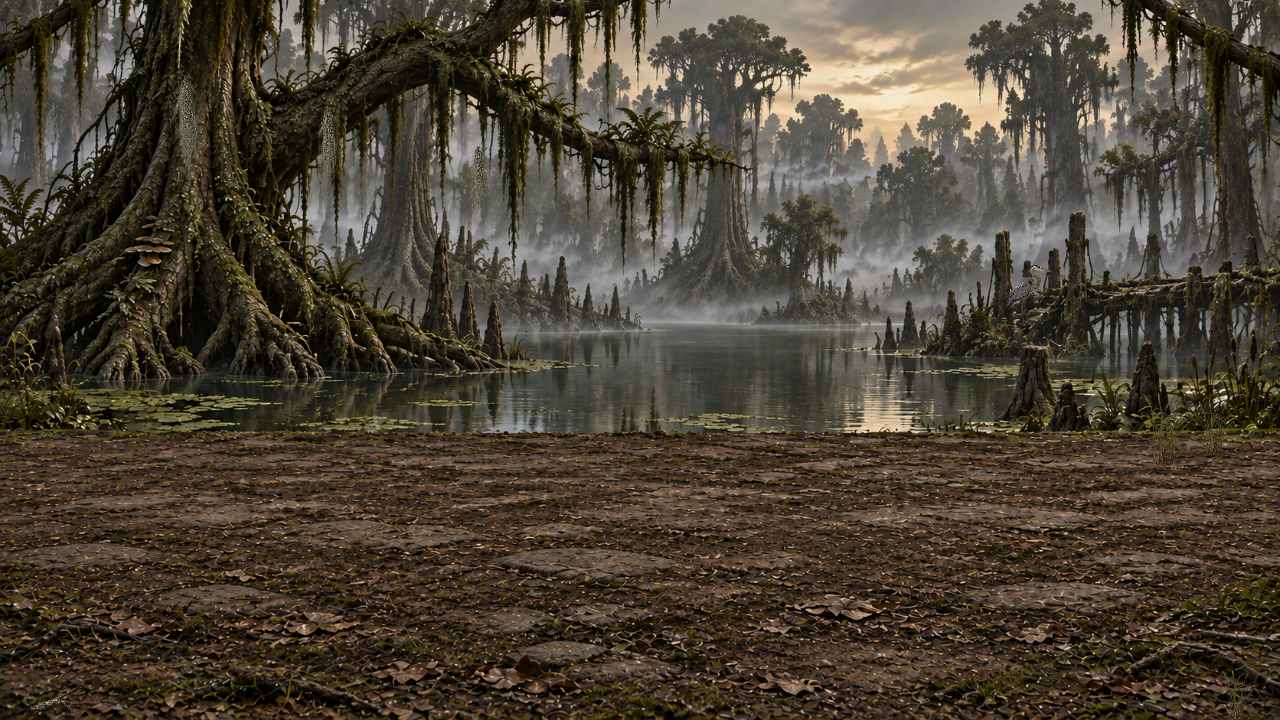
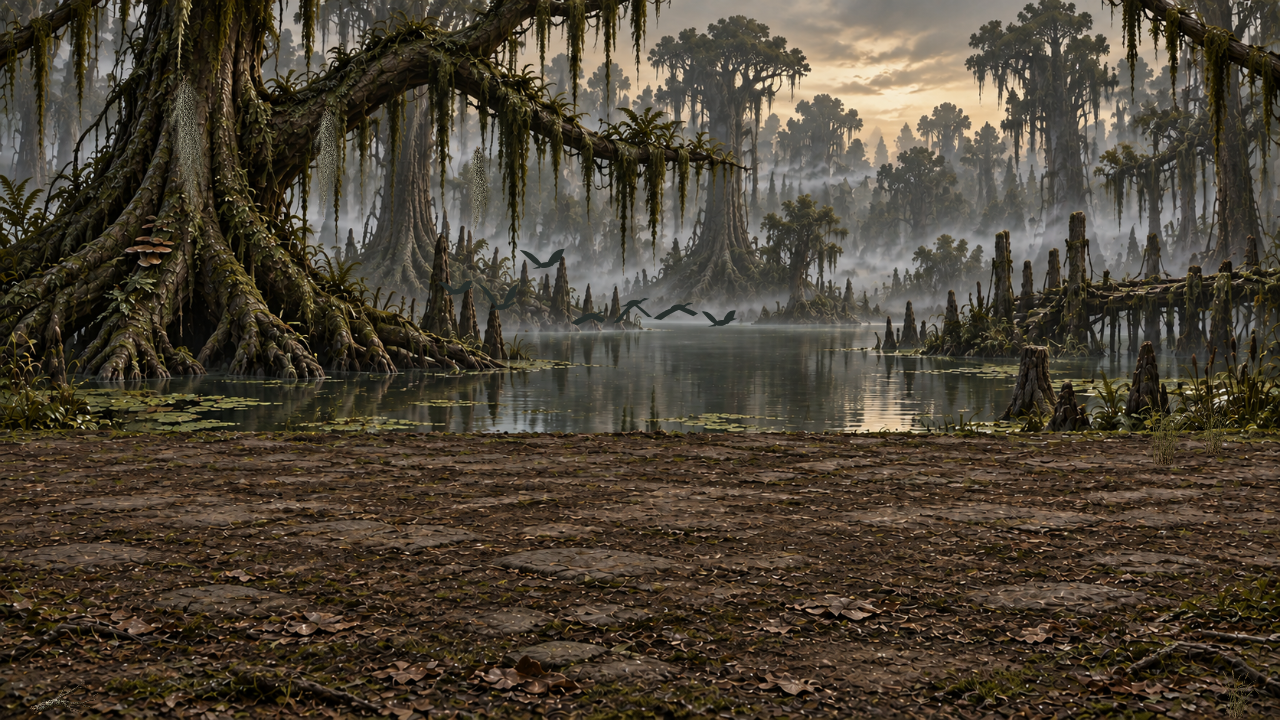
Strengthen swamp scene animations and vary bone charms

diff --git a/studies/backgrounds/swamp-v3/scene.js b/studies/backgrounds/swamp-v3/scene.js
@@ -1,11 +1,13 @@
 export const duration=24;
 export const screens=[
- {name:'Leechwater Crossing',file:'crossing.png',mood:'Open water. Wind in the cypress.',motion:'Moss stirs in irregular gusts, a marsh heron flexes its neck, and sparse bank reeds bow from their roots.',effects:['Hanging moss','Heron on the stump','Bank reeds'],bounds:[[.08,.1,.38,.4],[.75,.42,.12,.2],[.84,.48,.14,.15]]},
- {name:'The Witch’s Hollow',file:'hollow.png',mood:'An inhabited hollow, dense with old rituals.',motion:'Bone charms swing from fixed knots, rag strips flutter in small waves, and occasional fungal spores drift from the hollow.',effects:['Bone charms','Rag strips','Fungal spores'],bounds:[[.2,.22,.3,.32],[.29,.22,.2,.34],[.22,.3,.22,.25]]},
- {name:'The Drowned Procession',file:'procession.png',mood:'Two bell towers. A broken ceremonial route.',motion:'The great bell and the smaller bell swing with different weights and independently moving clappers. A loose chain shifts against the ruined stone.',effects:['Great funeral bell','Small funeral bell','Loose chain'],bounds:[[.14,.12,.2,.35],[.7,.2,.16,.3],[.4,.26,.05,.2]]},
+ {name:'Leechwater Crossing',file:'crossing.png',mood:'Open water. Wind in the cypress.',motion:'A flock of marsh birds crosses the water with staggered wingbeats. Longer moss strands catch the wind while reeds bow along the bank.',effects:['Hanging moss','Crossing marsh flock','Bank reeds'],bounds:[[.08,.1,.38,.4],[0,.24,1,.3],[.84,.48,.14,.15]]},
+ {name:'The Witch’s Hollow',file:'hollow.png',mood:'An inhabited hollow, dense with old rituals.',motion:'A dense mix of skull charms, paired bones and rib mobiles swings at different lengths. Rag strips flutter between them and fungal spores drift from the hollow.',effects:['Bone charms','Rag strips','Fungal spores'],bounds:[[.2,.22,.3,.32],[.29,.22,.2,.34],[.22,.3,.22,.25]]},
+ {name:'The Drowned Procession',file:'procession.png',mood:'Two bell towers. A broken ceremonial route.',motion:'Two bells swing on short iron suspension brackets, with clappers seated inside their mouths. A funeral brazier burns beside the processional route, shedding rising embers.',effects:['Great funeral bell','Small funeral bell','Funeral brazier and embers'],bounds:[[.14,.12,.2,.35],[.7,.2,.16,.3],[.58,.29,.09,.24]]},
  {name:'The Sunken Throne',file:'throne.png',mood:'The court survives. The king still rules.',motion:'Two tattered royal standards ripple below their fixed crossbars. Corroded ceremonial pendants turn and sway beside the raised throne.',effects:['Royal standards','Iron pendants'],bounds:[[.28,.25,.14,.29],[.61,.25,.13,.29]]}
 ];
 export const assetFiles=Object.fromEntries(['moss','charm','rag','bell','banner','pendant','reeds','branch','heron'].map(key=>[key,key+'.png']));
+assetFiles.fire='fire.png';
+for(const key of ['paired-bones','ribs','brazier','bird-skull'])assetFiles[key]=key+'.png';
 const TAU=Math.PI*2;
 const sine=(t,period,offset=0)=>Math.sin(TAU*(t/period+offset));
 const random=i=>{const a=Math.sin(i*127.1+311.7)*43758.5453;return a-Math.floor(a)};
@@ -44,28 +46,65 @@ function chain(g,x,y,length,t,active,phase=0){
 }
 function bell(g,image,x,y,w,h,t,period,phase,active){
  const a=active?.105*sine(t,period,phase):0;
- chain(g,x,y,20,0,false);
- g.save();g.translate(x,y+20);g.rotate(a);
- // A clapper has its own delayed pendulum, visible beneath the mouth.
- g.save();g.translate(0,h*.46);g.rotate(active?-.15*sine(t,period,phase+.14):0);
- const metal=g.createLinearGradient(-3,0,4,0);metal.addColorStop(0,'#242721');metal.addColorStop(.6,'#776d51');metal.addColorStop(1,'#30372c');g.fillStyle=metal;
- g.fillRect(-1.8,0,3.6,h*.55);g.beginPath();g.ellipse(0,h*.55,4.4,6.5,0,0,TAU);g.fill();g.restore();
- g.drawImage(image,-w/2,0,w,h);g.restore();
+ const fit=Math.min(w/image.width,h/image.height);w=image.width*fit;h=image.height*fit;
+ // Short fixed iron yoke. Only the bell and its internal clapper pivot.
+ g.save();g.translate(x,y);
+ g.strokeStyle='#232825';g.lineWidth=5;g.beginPath();g.moveTo(-9,3);g.lineTo(9,3);g.moveTo(0,0);g.lineTo(0,12);g.stroke();
+ g.strokeStyle='#8b8872';g.lineWidth=1;g.beginPath();g.moveTo(-9,1);g.lineTo(9,1);g.stroke();
+ g.translate(0,12);g.rotate(a);
+ g.drawImage(image,-w/2,0,w,h);
+ g.save();g.translate(0,h*.86);g.rotate(active?-.17*sine(t,period,phase+.14):0);
+ g.strokeStyle='#242820';g.lineWidth=2.7;g.beginPath();g.moveTo(0,0);g.lineTo(0,h*.075);g.stroke();
+ g.fillStyle='#69644b';g.beginPath();g.ellipse(0,h*.075,3.4,4.5,0,0,TAU);g.fill();g.restore();
+ g.restore();
+}
+function flock(g,t,active){
+ const ft=active?t:0;
+ for(let i=0;i<7;i++){
+  // Reset well outside the viewport; each flock follows a wide diagonal route.
+  const p=((ft/12+.2+i*.019)%1);
+  const x=-200+p*1680+i*12,y=206+Math.sin(p*Math.PI)*48+random(i+60)*76;
+  const size=19+(i%3)*3,flap=sine(ft, .75,i*.17);
+  g.save();g.translate(x,y);g.rotate(-.07);g.fillStyle='#262e2b';
+  g.beginPath();g.ellipse(0,0,7,2.8,-.08,0,TAU);g.fill();
+  g.beginPath();g.moveTo(-3,0);g.quadraticCurveTo(-size*.55,-7-flap*size*.7,-size,-3-flap*size);
+  g.lineTo(-size*.7,2-flap*size*.75);g.quadraticCurveTo(-size*.25,5,3,2);g.fill();
+  g.beginPath();g.moveTo(1,0);g.quadraticCurveTo(size*.3,-8-flap*size*.55,size*.8,-3-flap*size*.85);
+  g.lineTo(size*.6,3-flap*size*.55);g.lineTo(0,2);g.fill();
+  g.beginPath();g.moveTo(5,-1);g.lineTo(11,-4);g.lineTo(16,-3);g.lineTo(9,-1);g.lineTo(6,2);g.fill();
+  g.beginPath();g.moveTo(-5,0);g.lineTo(-14,3);g.lineTo(-6,3);g.fill();g.restore();
+ }
+}
+function brazier(g,fire,t,active,body){
+ const x=789,y=373,ft=active?t:0;
+ g.save();g.translate(x,y);
+ // Existing 8x8 game fire atlas: discrete frames, no frame blending.
+ const frame=Math.floor(ft*24)%64,sw=fire.width/8,sh=fire.height/8;
+ g.globalCompositeOperation='screen';
+ g.drawImage(fire,frame%8*sw,Math.floor(frame/8)*sh,sw,sh,-43,-159,86,99);
+ g.globalCompositeOperation='source-over';
+ sprite(g,body,0,-94,84,96);
+ if(active)for(let i=0;i<10;i++){
+  const p=(ft/3+random(i))%1;g.globalAlpha=Math.sin(p*Math.PI);
+  g.fillStyle=i%2?'#e9a94d':'#cc6629';g.fillRect(Math.sin(p*5+i)*12,-67-p*76,1.5,2.5);
+ }
+ g.restore();
 }
 export function drawScenery(g,index,image,a,time,enabled=[true,true,true]){
  const t=((time%duration)+duration)%duration;
  g.clearRect(0,0,1280,720);g.drawImage(image,0,0,1280,720);
  if(index===0){
-  for(const [x,y,w,h,p] of [[187,74,38,152,.1],[329,105,29,125,.4],[479,145,24,104,.7]])ribbon(g,a.moss,x,y,w,h,enabled[0]?t:0,p,enabled[0]?5:0);
-  ribbon(g,a.heron,1030,264,48,75,enabled[1]?t:0,.2,enabled[1]?5:0,'bird');
+  for(const [x,y,w,h,p] of [[187,74,48,184,.1],[329,105,38,154,.4],[479,145,31,128,.7]])ribbon(g,a.moss,x,y,w,h,enabled[0]?t:0,p,enabled[0]?12:0);
+  flock(g,t,enabled[1]);
   for(const [x,y,w,h,p] of [[1170,386,72,81,.1],[1219,395,46,61,.6]])ribbon(g,a.reeds,x,y,w,h,t,p,enabled[2]?4:0,'root');
  }else if(index===1){
-  for(const [x,y,w,h,p] of [[290,180,30,92,.1],[515,207,24,81,.45],[558,180,29,104,.8]])charm(g,a.charm,x,y,w,h,t,p,enabled[0]);
+  for(const [x,y,w,h,p] of [[290,180,38,122,.1],[515,207,32,108,.45],[558,180,35,133,.8],[361,124,26,104,.63],[459,149,31,139,.27]])charm(g,p===.63||p===.8?a['bird-skull']:a.charm,x,y,w,h,t,p,enabled[0]);
+  for(const [x,y,l,p,k] of [[321,154,57,.13,0],[405,126,67,.51,1],[487,185,63,.76,0],[538,186,96,.33,1]])charm(g,k===0?a['paired-bones']:a.ribs,x,y,40,l+46,t,p,enabled[0]);
   for(const [x,y,w,h,p] of [[335,171,19,103,.3],[488,183,16,88,.8]])ribbon(g,a.rag,x,y,w,h,t,p,enabled[1]?8:0);
  }else if(index===2){
   bell(g,a.bell,307,98,91,105,t,8,.06,enabled[0]);
   bell(g,a.bell,1005,180,63,77,t,6,.39,enabled[1]);
-  chain(g,470,194,86,t,enabled[2],.35);
+  brazier(g,a.fire,t,enabled[2],a.brazier);
  }else{
   for(const [x,y,w,h,p] of [[412,99,80,163,.12],[872,99,80,163,.68]])ribbon(g,a.banner,x,y,w,h,t,p,enabled[0]?11:0);
   for(const [x,y,w,h,p] of [[357,106,24,78,.2],[921,106,24,78,.7]]){
@@ -95,3 +134,4 @@ export function drawActor(g,x,y){
  g.beginPath();g.arc(0,-122,10,0,TAU);g.fill();g.stroke();
  g.beginPath();g.moveTo(-12,-108);g.lineTo(12,-108);g.lineTo(21,-74);g.lineTo(12,-68);g.lineTo(9,-84);g.lineTo(7,-56);g.lineTo(12,0);g.lineTo(1,0);g.lineTo(-2,-47);g.lineTo(-12,0);g.lineTo(-22,0);g.lineTo(-11,-57);g.lineTo(-11,-86);g.lineTo(-24,-65);g.lineTo(-30,-72);g.closePath();g.fill();g.stroke();g.restore();
 }
+

diff --git a/studies/backgrounds/swamp-v3/index.html b/studies/backgrounds/swamp-v3/index.html
@@ -10,4 +10,4 @@
 <div class="tools"><label><input id="foreground-only" type="checkbox"> Foreground only</label><button id="export-foreground">Export foreground PNG</button><span class="note">Separate transparent layer above actors</span></div><div class="stage" id="stage" role="img" aria-label="Layered swamp preview; click to place actor"><canvas id="scene-layer" width="1280" height="720" aria-label="Background and atmosphere layer"></canvas><canvas id="actor-layer" width="1280" height="720" aria-label="Actor layer"></canvas><canvas id="foreground-layer" width="1280" height="720" aria-label="Transparent foreground layer"></canvas><canvas id="guide-layer" width="1280" height="720" aria-label="Review guides"></canvas></div>
 <div class="tools"><span id="clock">0.00 / 24.00s</span><input aria-label="Loop time" id="timeline" type="range" min="0" max="24" step="0.0166667" value="0"><label><input id="seam" type="checkbox"> Loop seam</label></div>
 <h2 id="name"></h2><p id="description"></p><div class="tools" id="effects"></div><p class="note">Click the arena to place the actor guide and inspect foreground overlap. Independent animations share a seamless 24-second cycle. Local study; not yet integrated into combat. <a href="../swamp-v2/index.html">Compare v2</a></p>
-</main><script type="module" src="./preview.js"></script></body></html>
+</main><script type="module" src="./preview.js?revision=2"></script></body></html>

diff --git a/studies/backgrounds/swamp-v3/preview.js b/studies/backgrounds/swamp-v3/preview.js
@@ -1,4 +1,4 @@
-import {screens,duration,assetFiles,prepareAssets,drawScenery,drawAtmosphere,drawForeground,drawActor} from './scene.js';
+import {screens,duration,assetFiles,prepareAssets,drawScenery,drawAtmosphere,drawForeground,drawActor} from './scene.js?revision=2';
 const $=id=>document.getElementById(id),canvas=$('scene-layer'),g=canvas.getContext('2d');
 const actorCanvas=$('actor-layer'),actorContext=actorCanvas.getContext('2d');
 const foregroundCanvas=$('foreground-layer'),foregroundContext=foregroundCanvas.getContext('2d');

diff --git a/studies/backgrounds/swamp-v3/README.md b/studies/backgrounds/swamp-v3/README.md
@@ -6,9 +6,9 @@ Review study only; native game assets remain unchanged.
 
 | Scene | Animated details | Foreground |
 | --- | --- | --- |
-| Leechwater Crossing | Hanging moss, perched heron neck movement, rooted reeds | Sparse low branch and reeds at edges |
-| The Witch’s Hollow | Bone charms, fluttering rags, drifting fungal spores | Small corner branch |
-| The Drowned Procession | Two independently swinging bells and clappers, loose chain | Small corner debris |
+| Leechwater Crossing | Windblown moss, crossing marsh bird flock with independent wingbeats, rooted reeds | Sparse low branch and reeds at edges |
+| The Witch’s Hollow | Nine varied skull, bird skull, paired bone and rib charms; fluttering rags; drifting fungal spores | Small corner branch |
+| The Drowned Procession | Two independently swinging bells on short iron yokes with internal clappers, burning funeral brazier and rising embers | Small corner debris |
 | The Sunken Throne | Rippling royal standards, turning iron pendants | None |
 
 New paintings separate the open crossing, inhabited hollow, paired bell ruins and enlarged royal dais. Generated cutouts retain transparency and aspect ratio. Cloth and moss deform in narrow strips from fixed attachments; no animation crossfades or blur. Foreground is a separate canvas. All motion repeats over 24 seconds.
@@ -16,3 +16,5 @@ New paintings separate the open crossing, inhabited hollow, paired bell ruins an
 Use individual effect toggles, pause/frame step, timeline, speed, foreground isolation, actor guide, previous-scene comparison and PNG export to review. Previous-scene comparison shows the original painting.
 
 Art provenance and prompts are in art-prompts.json. Rebuild isolated sprites with node tools/godot/bake-swamp-v3-props.mjs. Validate loops, effect controls and foreground clearance with node tools/godot/check-swamp-v3.mjs; it also renders review images and a contact sheet.
+
+Revision: larger scene 1 motion, varied generated bone props, shorter bell suspension and funeral fire. Scene 4 is unchanged. revision-prompts.json records the new prop sheet and existing game fire source. Rebuild the additional props with node tools/godot/bake-swamp-v3-revision.mjs.
